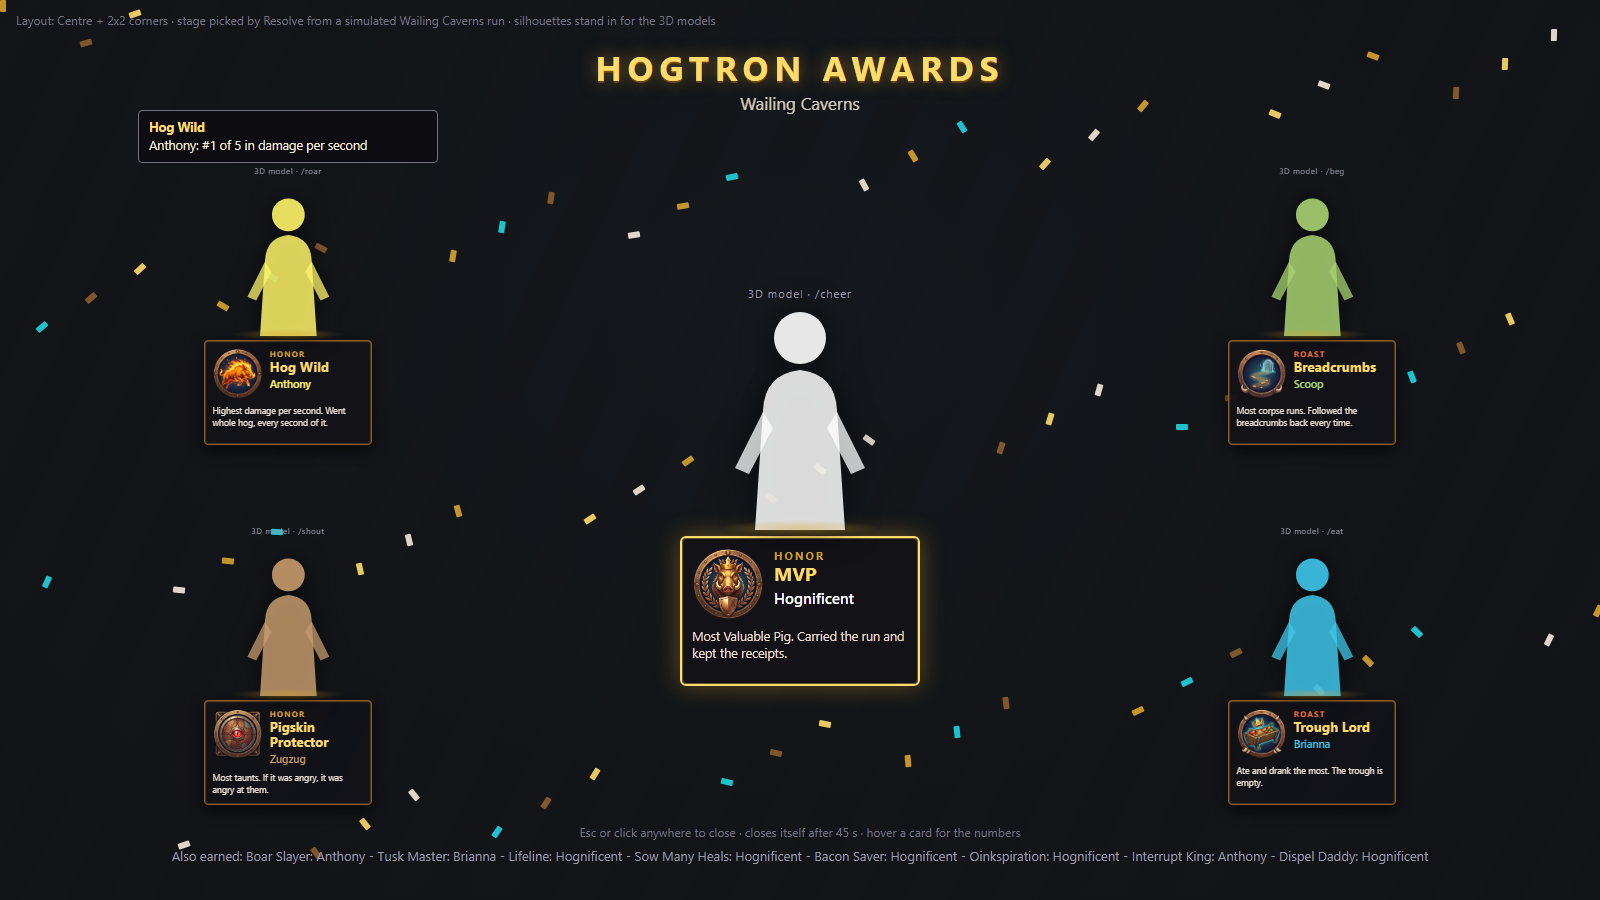
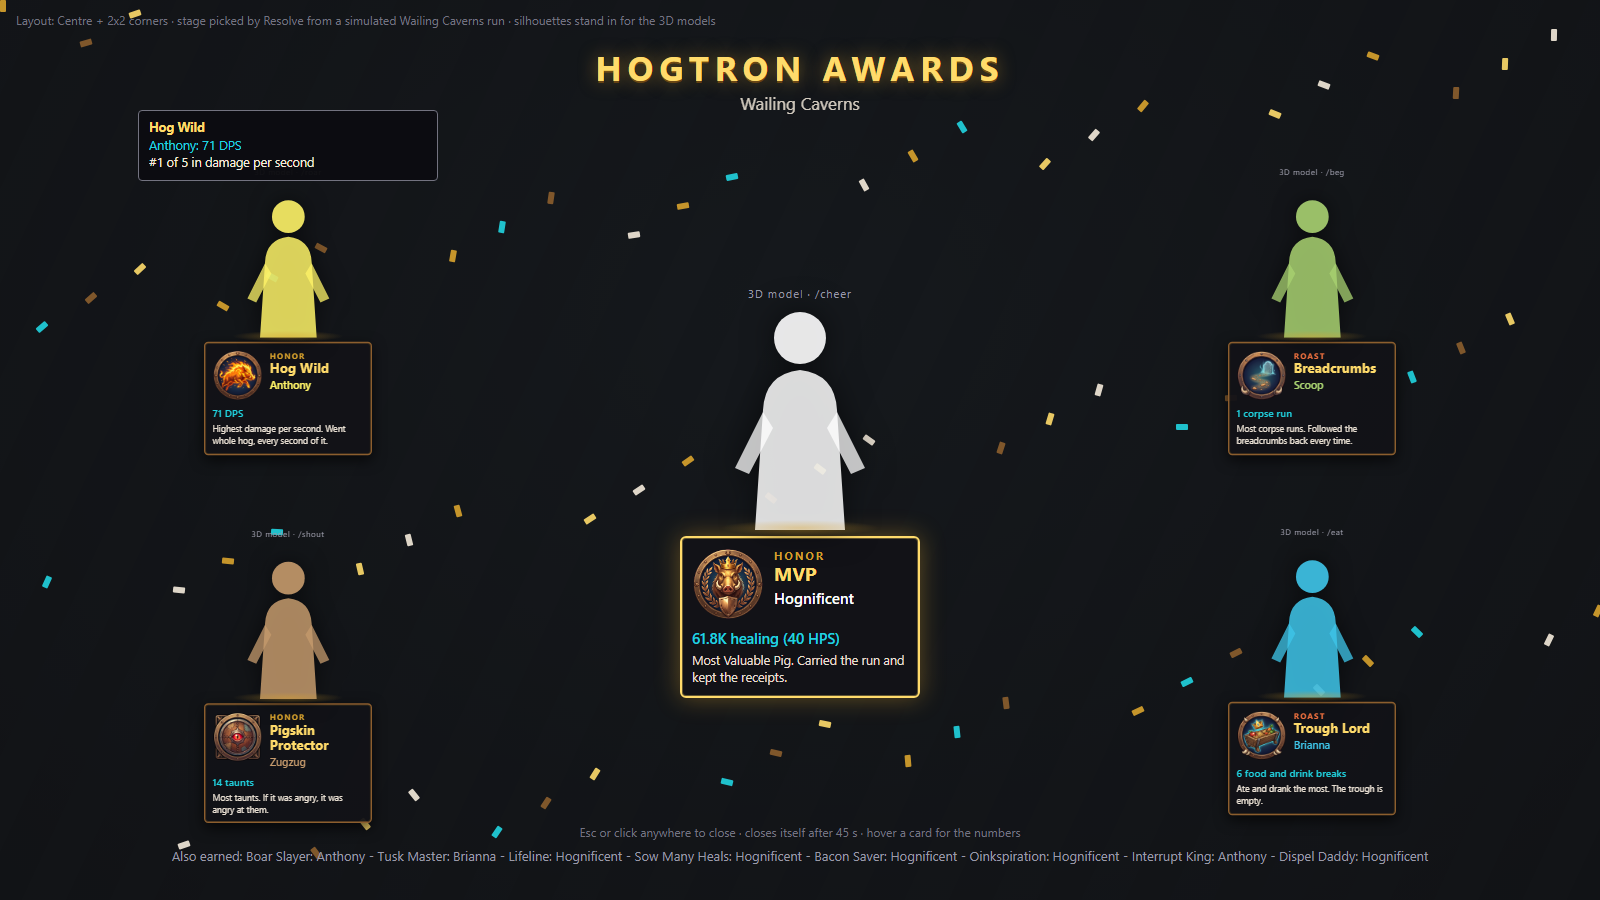
feat(awards): real numbers on the cards (game meter amounts, own counts) + crit / biggest-hit probe
Sean 2026-10-15: "can we grab average DPS, highest crit, highest heal?"
- Cards and hover now carry the number: "61.8K healing (40 HPS)", "71 DPS", "98.4K damage (64 DPS)", "14 taunts",
  "first death at 1m 35s". Meter amounts are SECRET on Forever: they are only formatted (AbbreviateNumbers /
  string.format) and handed to SetText - measured allowed - never compared; winners still come from the meter's
  own order. A mutant that compares one fails 6 tests.
- Highest crit / biggest single heal: not available (no combat log). The meter's per-spell breakdown
  (combatSpellDetails) has never been opened, so Metrics.ProbeSpellDetail records what it holds (self + one
  groupmate; secret GUIDs noted) into diag after every run and in /hh awards probe.
- MVP shows the player's main line only; singular counts read right ("1 corpse run").
- Mockups re-rendered with realistic level-20 Wailing Caverns numbers.
Tests: 62 awards tests, 1099 total. Lint 131 files 0.

diff --git a/dev/render_awards.py b/dev/render_awards.py
@@ -41,26 +41,29 @@ Enum.DamageMeterSessionType = { Overall = 0, Current = 1, Expired = 2 }
 local modeName, segName = {}, {}
 for k, v in pairs(Enum.DamageMeterType) do modeName[v] = k end
 for k, v in pairs(Enum.DamageMeterSessionType) do segName[v] = k end
+-- realistic level-20 Wailing Caverns numbers: { name, total, per second }. Amounts are secrets, as on Forever.
 HH_meter = {
-  ["DamageDone:Overall"] = { "Brianna", "Anthony", "Scoop", "Zugzug", "Hognificent" },
-  ["Dps:Overall"] = { "Anthony", "Brianna", "Scoop", "Zugzug", "Hognificent" },
-  ["HealingDone:Overall"] = { "Hognificent", "Zugzug" },
-  ["Hps:Overall"] = { "Hognificent", "Zugzug" },
-  ["Absorbs:Overall"] = { "Hognificent" },
-  ["Interrupts:Overall"] = { "Anthony", "Zugzug" },
-  ["Dispels:Overall"] = { "Hognificent" },
-  ["DamageTaken:Overall"] = { "Zugzug", "Scoop", "Anthony", "Brianna", "Hognificent" },
-  ["AvoidableDamageTaken:Overall"] = { "Scoop", "Brianna" },
-  ["Deaths:Overall"] = { "Scoop", "Brianna" },
-  ["DamageDone:Current"] = { "Anthony", "Brianna", "Scoop", "Zugzug", "Hognificent" },
-  ["HealingDone:Current"] = { "Hognificent" },
+  ["DamageDone:Overall"] = { { "Brianna", 98400, 64 }, { "Anthony", 91200, 71 }, { "Scoop", 70300, 46 }, { "Zugzug", 52100, 34 }, { "Hognificent", 4100, 3 } },
+  ["Dps:Overall"] = { { "Anthony", 91200, 71 }, { "Brianna", 98400, 64 }, { "Scoop", 70300, 46 }, { "Zugzug", 52100, 34 }, { "Hognificent", 4100, 3 } },
+  ["HealingDone:Overall"] = { { "Hognificent", 61800, 40 }, { "Zugzug", 3900, 3 } },
+  ["Hps:Overall"] = { { "Hognificent", 61800, 40 }, { "Zugzug", 3900, 3 } },
+  ["Absorbs:Overall"] = { { "Hognificent", 12400 } },
+  ["Interrupts:Overall"] = { { "Anthony", 14 }, { "Zugzug", 6 } },
+  ["Dispels:Overall"] = { { "Hognificent", 9 } },
+  ["DamageTaken:Overall"] = { { "Zugzug", 72400 }, { "Scoop", 21800 }, { "Anthony", 15100 }, { "Brianna", 9800 }, { "Hognificent", 4300 } },
+  ["AvoidableDamageTaken:Overall"] = { { "Scoop", 6200 }, { "Brianna", 1900 } },
+  ["Deaths:Overall"] = { { "Scoop", 2 }, { "Brianna", 1 } },
+  ["DamageDone:Current"] = { { "Anthony", 9100, 88 }, { "Brianna", 8700, 84 }, { "Scoop", 6100, 59 }, { "Zugzug", 4800, 46 }, { "Hognificent", 300, 3 } },
+  ["HealingDone:Current"] = { { "Hognificent", 7900, 77 } },
 }
 C_DamageMeter = { GetCombatSessionFromType = function(st, mt)
-  local names = HH_meter[modeName[mt] .. ":" .. segName[st]] or {}
+  local rows = HH_meter[modeName[mt] .. ":" .. segName[st]] or {}
   local src = {}
-  for i, n in ipairs(names) do src[i] = { name = n, totalAmount = MockSecret(1000 - i) } end
+  for i, r in ipairs(rows) do src[i] = { name = r[1], totalAmount = MockSecret(r[2]), amountPerSecond = r[3] and MockSecret(r[3]) or nil } end
   return { combatSources = src }
 end }
+-- the client's own abbreviation ("98.4K"), which accepts secrets
+AbbreviateNumbers = function(v) v = MockUnwrap(v) if v >= 10000 then return ("%.1fK"):format(v / 1000) end return tostring(v) end
 C_ChatInfo = { RegisterAddonMessagePrefix = function() return true end, SendAddonMessage = function() return 0 end }
 GetServerTime = function() return 1760000000 end
 function DoEmote() end; function JumpOrAscendStart() end; function RollOnLoot() end; function SetRaidTarget() end
@@ -106,13 +109,16 @@ def play_run(l):
         for m in l.eval(f'HogTronAwards.Sync.EncodeNominations("{name}-1760000003", {counts})').values():
             l.execute(f'MockFire("CHAT_MSG_ADDON", "HTR_AWD", [[{m}]], "PARTY", "{name}-Nightslayer")')
     l.execute('MockAdvance(3)')
+    l.execute("""local st = HogTronAwards.last.stage
+      local function plain(w) if w and w.stat then w.statPlain = tostring(MockUnwrap(w.stat)) end end
+      plain(st.headline) for _, w in ipairs(st.others) do plain(w) end for _, w in ipairs(st.also) do plain(w) end""")
     return l.eval('HogTronAwards.last')
 
 
 def winner_dict(w):
     a = w["award"]
     return {"id": a["id"], "name": a["name"], "kind": a["kind"], "flavor": a["flavor"], "emote": a["emote"],
-            "player": w["name"], "detail": w["detail"], "note": a["note"]}
+            "player": w["name"], "detail": w["detail"], "note": a["note"], "stat": w["statPlain"]}
 
 
 CSS = """
@@ -134,7 +140,8 @@ CSS = """
 .card.head{border-color:#ffdb6b;box-shadow:0 0 24px #d9a32e66, inset 0 0 0 1px #ffdb6b55}
 .row{display:flex;gap:10px}.kind{font-size:11px;font-weight:700;letter-spacing:2px;color:#d9a32e}.kind.roast{color:#f27340}
 .aw{font-size:19px;font-weight:700;color:#ffdb6b;line-height:1.15}.pl{font-size:15px;font-weight:600;margin-top:3px}
-.fl{font-size:12.5px;line-height:1.35;margin-top:8px;color:#e8dfd2}
+.fl{font-size:12.5px;line-height:1.35;margin-top:4px;color:#e8dfd2}
+.st{font-size:14.5px;font-weight:600;margin-top:8px;color:#21D4E0}
 .also{position:absolute;bottom:36px;width:100%;text-align:center;color:#9a9aa8;font-size:13px}
 .hint{position:absolute;bottom:60px;width:100%;text-align:center;color:#737380;font-size:12px}
 .conf{position:absolute;width:6px;height:12px;border-radius:1px;opacity:.9}
@@ -173,7 +180,8 @@ def card(w: dict, head: bool = False) -> str:
     return (f'<div class="card{" head" if head else ""}"><div class="row">{icon(w["id"], 72)}<div>'
             f'<div class="kind{" roast" if w["kind"] == "roast" else ""}">{kind}</div><div class="aw">{html.escape(w["name"])}</div>'
             f'<div class="pl" style="color:{color}">{html.escape(w["player"])}</div></div></div>'
-            f'<div class="fl">{html.escape(w["flavor"])}</div></div>')
+            + (f'<div class="st">{html.escape(w["stat"])}</div>' if w.get("stat") else "")
+            + f'<div class="fl">{html.escape(w["flavor"])}</div></div>')
 
 
 def stage_html(l, last, layout: str) -> str:
@@ -189,7 +197,8 @@ def stage_html(l, last, layout: str) -> str:
                      f'{card(w, i == 0)}</div>')
     hov = ws[1]
     tip = (f'<div class="tip" style="left:{W / 2 + pos[1]["x"] - 150:.0f}px;top:{H / 2 - pos[1]["y"] - 160:.0f}px">'
-           f'<b>{html.escape(hov["name"])}</b><br>{html.escape(hov["player"])}: {html.escape(str(hov["detail"]))}'
+           f'<b>{html.escape(hov["name"])}</b><br>' + (f'<span style="color:#21D4E0">{html.escape(hov["player"])}: {html.escape(hov["stat"])}</span><br>' if hov.get("stat") else "")
+           + f'{html.escape(str(hov["detail"]))}'
            + (f'<br><i>{html.escape(hov["note"])}</i>' if hov.get("note") else "") + '</div>')
     also = [f'{o["award"]["name"]}: {o["name"]}' for o in stage["also"].values()][:8]
     label = l.eval(f'HogTronAwards.UI.LAYOUT_LABELS.{layout}')
@@ -219,7 +228,7 @@ def cards_html(l, last) -> str:
     pick = pick[:8]
     return (f'<!doctype html><meta charset="utf-8"><style>{CSS} body{{background:#121217}}</style>'
             f'<div style="padding:24px 40px 0;color:#9a9aa8;font-size:13px">Award cards from the same simulated run (real winners, real icons, '
-            f'flavor text from data/awards.lua). In game the card sits under the player\'s 3D model.</div>'
+            f'flavor text from data/awards.lua; the cyan line is the number from the game meter, or the count kept by that player). In game the card sits under the player\'s 3D model.</div>'
             f'<div class="cards">{"".join(card(w, i == 0) for i, w in enumerate(pick))}</div>')
 
 

diff --git a/tests/test_awards.py b/tests/test_awards.py
@@ -536,3 +536,125 @@ def test_a_lone_entry_reads_number_one_not_last(aw):
     aw.execute(f'HH_d, HH_n, HH_r = {A}.Metrics.Collect({{}}, "dungeon"); HH_w = {A}.Resolve.Winners(HH_d, HH_n, HH_r, "dungeon")')
     w = {x["award"]["id"]: x for x in lst(aw.eval('HH_w'))}
     assert w["dispel_daddy"]["name"] == "Hognificent" and w["dispel_daddy"]["detail"] == "#1 of 5 in dispels"
+
+
+
+# ================================================================== real numbers on the cards (2026-10-15)
+AMOUNTS = """
+-- meter rows with amounts: secret values that THROW on compare / arithmetic, exactly like Forever
+HH_amounts = {}
+function MockMeterAmounts(mode, seg, rows) HH_amounts[mode .. ":" .. seg] = rows end
+local base = C_DamageMeter.GetCombatSessionFromType
+C_DamageMeter.GetCombatSessionFromType = function(st, mt)
+  local s = base(st, mt)
+  for k, rows in pairs(HH_amounts) do
+    local mode, seg = k:match("^(.-):(.-)$")
+    if Enum.DamageMeterType[mode] == mt and Enum.DamageMeterSessionType[seg] == st then
+      s.combatSources = {}
+      for i, r in ipairs(rows) do
+        s.combatSources[i] = { name = r[1], totalAmount = MockSecret(r[2]), amountPerSecond = r[3] and MockSecret(r[3]) or nil,
+          sourceGUID = r[4], isLocalPlayer = r[1] == "Hognificent" }
+      end
+    end
+  end
+  return s
+end
+"""
+
+ROWS = """
+MockMeterAmounts("HealingDone", "Overall", { { "Hognificent", 48210, 1240 }, { "Unit1", 2210, 60 } })
+MockMeterAmounts("Dps", "Overall", { { "Unit2", 61300, 412 }, { "Unit1", 40100, 280 } })
+MockMeterAmounts("DamageDone", "Overall", { { "Unit2", 61300, 412 }, { "Unit1", 40100, 280 }, { "Hognificent", 900, 6 } })
+"""
+
+
+def run_with_amounts(aw):
+    party(aw)
+    aw.execute(AMOUNTS)
+    aw.execute(ROWS)
+    aw.execute(f'HH_d, HH_n, HH_r = {A}.Metrics.Collect({{ Unit3 = {{ jumps = 61, lootGold = 48210, firstDeath = 95, selfDeaths = 1 }} }}, "dungeon")')
+    aw.execute(f'HH_w = {A}.Resolve.Winners(HH_d, HH_n, HH_r, "dungeon")')
+    # stat strings built from secret amounts are themselves SECRET strings (as on Forever); unwrap only to assert
+    aw.execute('for _, w in ipairs(HH_w) do w.statPlain = w.stat and MockUnwrap(w.stat) end')
+    out = {}
+    for w in lst(aw.eval('HH_w')):
+        d = dict(w.items())
+        d["stat"] = d.get("statPlain")
+        out[w["award"]["id"]] = d
+    return out
+
+
+def test_cards_carry_the_meters_real_numbers_without_any_maths_on_them(aw):
+    w = run_with_amounts(aw)
+    assert w["lifeline"]["name"] == "Hognificent" and w["lifeline"]["stat"] == "48210 healing (1240 HPS)"
+    assert w["hog_wild"]["name"] == "Unit2" and w["hog_wild"]["stat"] == "412 DPS"
+    assert w["tusk_master"]["stat"] == "61300 damage (412 DPS)"
+    assert w["lifeline"]["detail"] == "#1 of 5 in healing done"            # the rank stays in the hover
+    assert errors(aw) == []                                                 # secrets were formatted, never compared
+
+
+def test_counted_awards_show_their_own_numbers(aw):
+    w = run_with_amounts(aw)
+    assert w["pigeon_toed"]["stat"] == "61 jumps"
+    assert w["piggy_bank"]["stat"] == "4g 82s 10c picked up"
+    assert w["sow_low"]["stat"] == "first death at 1m 35s"
+
+
+def test_abbreviation_is_used_when_the_client_has_it(aw):
+    aw.execute('AbbreviateNumbers = function(v) v = MockUnwrap(v) return ("%.1fk"):format(v / 1000) end')
+    w = run_with_amounts(aw)
+    assert w["lifeline"]["stat"] == "48.2k healing (1240 HPS)"
+
+
+def test_stat_line_and_tooltip_on_the_stage(aw):
+    run_with_amounts(aw)
+    aw.execute('for i, w in ipairs(HH_w) do if w.award.id == "lifeline" then HH_w[1], HH_w[i] = w, HH_w[1] break end end')
+    aw.execute(f'{A}.UI.ShowStage({{ headline = HH_w[1], others = {{}}, also = {{}} }}, {{}})')
+    stat = aw.eval('HH_w[1].statPlain')
+    assert stat
+    assert aw.eval('MockUnwrap(HogTronAwardsStage.slots[1].stat._text)') == stat
+    aw.execute('GameTooltip._lines = {}; HogTronAwardsStage.slots[1].card:GetScript("OnEnter")(HogTronAwardsStage.slots[1].card)')
+    assert aw.eval('(function() for _, l in ipairs(GameTooltip._lines) do if tostring(MockUnwrap(l)):find(HH_w[1].statPlain, 1, true) then return true end end return false end)()')
+
+
+def test_preview_cards_show_numbers_too(aw):
+    aw.execute(f'HH_p = {A}.PreviewStage("x")')
+    assert aw.eval('HH_p.headline.stat') and all(o["stat"] for o in lst(aw.eval('HH_p.others')))
+
+
+PROBE = """
+MockMeterAmounts("DamageDone", "Overall", { { "Hognificent", 900, 6, "Player-0" }, { "Unit1", 500, 3, MockSecret("Player-1") } })
+C_DamageMeter.GetCombatSessionSourceFromType = function(st, mt, guid)
+  if MockUnwrap(guid) ~= "Player-0" then error("Secret values are only allowed during untainted execution") end
+  return { totalAmount = MockSecret(900), combatSpells = { { spellID = 585, totalAmount = MockSecret(900),
+    combatSpellDetails = { { critAmount = MockSecret(420), maxAmount = MockSecret(420), hitCount = 3 } } } } }
+end
+"""
+
+
+def test_spell_detail_probe_reports_crit_like_fields_and_secret_guids(aw):
+    party(aw)
+    aw.execute(AMOUNTS)
+    aw.execute(PROBE)
+    r = aw.eval(f'{A}.Metrics.ProbeSpellDetail()')
+    assert "critAmount" in r["candidates"] and "maxAmount" in r["candidates"]
+    assert "SECRET" in r["DamageDone.other.guid"]
+    assert aw.eval('HogHeals.db.global.diag.awards.spellProbe.candidates') == r["candidates"]
+    aw.execute('MockLog.chat = {}; HogHeals:SlashCommand("awards probe")')
+    assert any("crit / biggest hit" in l for l in lst(aw.eval('MockLog.chat')))
+    assert errors(aw) == []
+
+
+def test_probe_says_so_when_there_is_no_crit_field(aw):
+    party(aw)
+    aw.execute(AMOUNTS)
+    aw.execute('MockMeterAmounts("DamageDone", "Overall", { { "Hognificent", 900, 6, "Player-0" } })')
+    aw.execute('C_DamageMeter.GetCombatSessionSourceFromType = function() return { combatSpells = { { spellID = 1, totalAmount = 5, combatSpellDetails = {} } } } end')
+    assert aw.eval(f'{A}.Metrics.ProbeSpellDetail().result') == "no crit / biggest-hit field found"
+
+
+def test_mvp_shows_only_the_main_line_and_singular_counts_read_right(aw):
+    w = run_with_amounts(aw)
+    assert w["lifeline"]["stat"] == "48210 healing (1240 HPS)"
+    aw.execute(f'HH_one = {A}.Resolve.Stat({A}.BY_ID.breadcrumbs, "x", 1)')
+    assert aw.eval('HH_one') == "1 corpse run"
